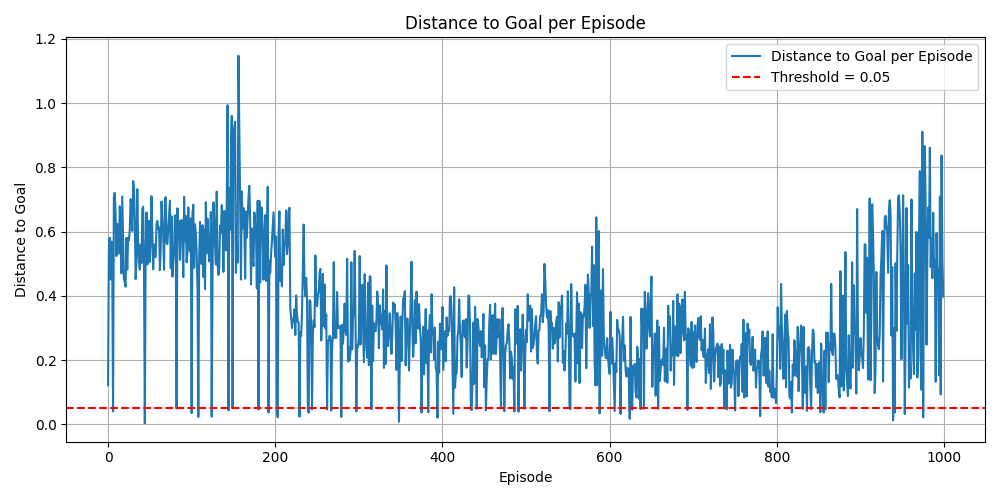
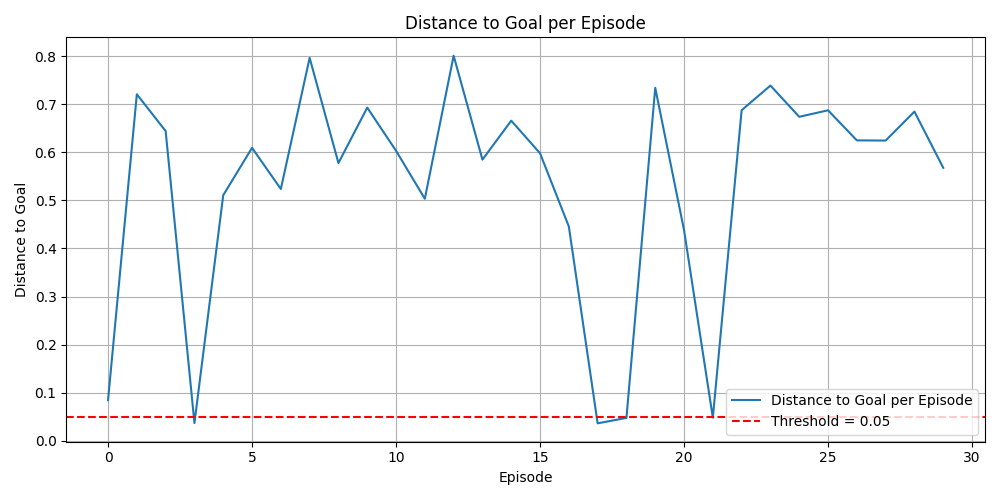
Update training parameters and add visualization features

diff --git a/training/ddpg_her.py b/training/ddpg_her.py
@@ -8,7 +8,7 @@ import matplotlib.pyplot as plt
 
 if __name__ == "__main__":
 
-    n_games = 1000
+    n_games = 250
     opt_steps = 64
     best_score = 0
     score_history = []

diff --git a/agents/ddpg.py b/agents/ddpg.py
@@ -25,7 +25,7 @@ tau = 0.001
 max_size = int(1e6)
 
 # exploration noise factor 
-noise_factor = 0.16
+noise_factor = 0.165
 
 
 # training batch size 
